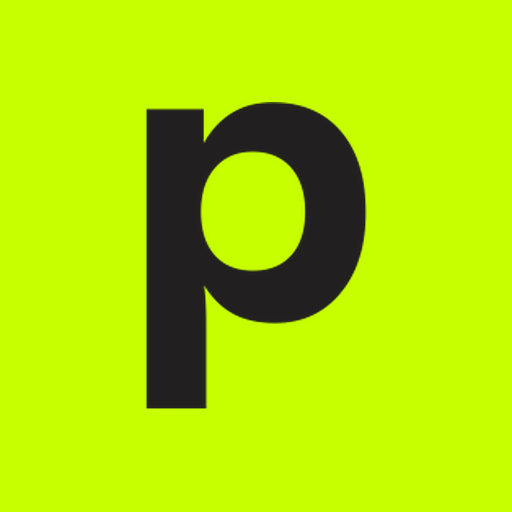
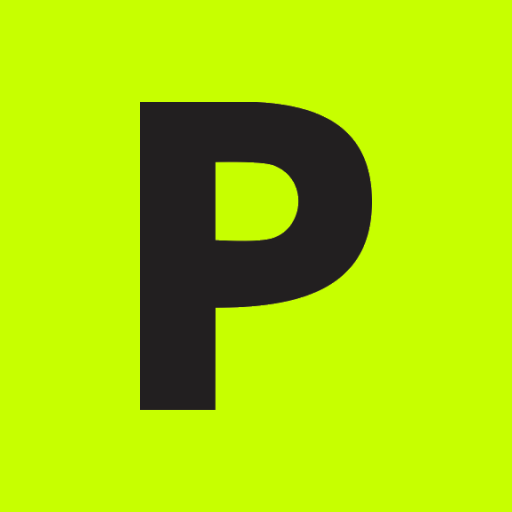
Put the Powerstick wordmark on the site
The new logo arrived as media-inbox/powerstik0logo.png: capital P, "Power"
reversed out of a lime block, "stick" in ink, and the spelling the brand is
moving to. It is already trimmed, and its ink is exactly #221F20.

Its lime is not. The artwork ships in #DBE836, a duller and yellower green
that reads as a mistake beside a #C7FF00 button, so the installed files are
recoloured and the original is kept untouched as the master. If #DBE836 turns
out to be the new brand lime, that is a token change and a different job.

The knockout had to be selective. "Power" sits on the lime block, so turning
all the ink white would have wiped it off its own block - white on lime is
about 1.2:1. Only the type right of the block turns white.

Favicons and the mark are rebuilt from the new capital P, and the header and
footer carry the new 960x184 ratio so nothing shifts while the image loads.

The copy still says Powerstik everywhere - around 115 occurrences. The footer
now sets the new name in the logo and the old one in the line beneath it.
That is one pass, not a piecemeal fix, and it needs the domain, the registered
name and the (R) settled first. brand.md says so at the top.

diff --git a/resources/views/components/site/footer.blade.php b/resources/views/components/site/footer.blade.php
@@ -10,7 +10,7 @@
 <footer class="on-dark bg-ink text-[14.5px] text-muted">
     <div class="site-container-wide grid gap-12 pt-16 sm:grid-cols-2 lg:grid-cols-[1.4fr_1fr_1fr_1fr] lg:gap-14 lg:pt-[76px]">
         <div class="sm:col-span-2 lg:col-span-1">
-            <img src="{{ asset('images/brand/logo-white.png') }}" alt="Powerstik" width="960" height="217" loading="lazy" class="h-[30px] w-auto">
+            <img src="{{ asset('images/brand/logo-white.png') }}" alt="Powerstick" width="960" height="184" loading="lazy" class="h-[30px] w-auto">
             <p class="mt-6 max-w-[34ch] leading-[1.6] text-faint">Powerstik is a brand of Design India. Labels, cartons and corrugated packaging, designed and printed in-house.</p>
             <address class="mt-5 leading-[1.6] not-italic text-mono">
                 @if ($address)

diff --git a/resources/views/components/admin/layouts/app.blade.php b/resources/views/components/admin/layouts/app.blade.php
@@ -29,7 +29,7 @@
         <aside class="fixed inset-y-0 left-0 z-40 w-64 -translate-x-full border-r border-zinc-200 bg-white transition lg:translate-x-0"
                :class="nav && 'translate-x-0'">
             <div class="flex h-16 items-center border-b border-zinc-200 px-5">
-                <a href="{{ route('admin.dashboard') }}"><img src="/images/brand/logo.png" alt="Powerstik" class="h-8 w-auto"></a>
+                <a href="{{ route('admin.dashboard') }}"><img src="/images/brand/logo.png" alt="Powerstick" class="h-8 w-auto"></a>
             </div>
             <nav class="h-[calc(100%-4rem)] space-y-5 overflow-y-auto p-3">
                 @foreach ($nav as $group => $items)

diff --git a/resources/views/components/site/header.blade.php b/resources/views/components/site/header.blade.php
@@ -26,7 +26,7 @@
         class="sticky top-0 z-40 border-b border-rule bg-paper/94 backdrop-blur-[8px]">
     <div class="site-container-wide flex h-[72px] items-center justify-between gap-10 min-[1100px]:h-[84px]">
         <a href="{{ url('/') }}" class="shrink-0" aria-label="Powerstik home">
-            <img src="{{ asset('images/brand/logo.png') }}" alt="Powerstik" width="960" height="217" class="h-7 w-auto min-[1100px]:h-9">
+            <img src="{{ asset('images/brand/logo.png') }}" alt="Powerstick" width="960" height="184" class="h-7 w-auto min-[1100px]:h-9">
         </a>
 
         <nav aria-label="Main" class="hidden min-[1100px]:block">

diff --git a/resources/views/admin/auth/login.blade.php b/resources/views/admin/auth/login.blade.php
@@ -1,7 +1,7 @@
 <x-admin.layouts.guest title="Log in">
     <div class="flex min-h-full items-center justify-center px-4 py-12">
         <div class="w-full max-w-sm">
-            <img src="/images/brand/logo.png" alt="Powerstik" class="mx-auto h-12 w-auto">
+            <img src="/images/brand/logo.png" alt="Powerstick" class="mx-auto h-12 w-auto">
             <form method="POST" action="{{ route('admin.login') }}" class="adm-card mt-8 space-y-5 p-6">
                 @csrf
                 <x-admin.field name="email" label="Email" type="email" autocomplete="username" required autofocus />

diff --git a/docs/design/brand.md b/docs/design/brand.md
@@ -1,8 +1,15 @@
 # Powerstik brand — lime and ink
 
 Source of truth: the client brochure (`docs/design/brand/brochure-1..4.jpg`, full PDF in
-`resources/media-inbox/brochure.pdf`) and the supplied wordmark
-(`docs/design/brand/powerstik-logo-master.png`, 1288 × 267, transparent).
+`resources/media-inbox/brochure.pdf`) and the supplied wordmark —
+**`docs/design/brand/powerstick-logo-master.png`, 2729 × 522, transparent**, which arrived
+on 2026-10-17 and replaced `powerstik-logo-master.png`.
+
+> ⚠ **The brand is being renamed: Powerstik → Powerstick.** The new wordmark is on the
+> site; **the copy has not been changed yet** — around 115 occurrences across views, seeders,
+> config, mail and docs still read "Powerstik", so the footer currently sets the new name in
+> the logo and the old one in the sentence beneath it. Don't fix that piecemeal: it is one
+> pass, and it needs decisions about the domain, the ® and the registered name first.
 
 This replaces the red scheme (`#E31E24`) that the home page design handoff used. Nothing of the
 red brand survives; if you find a red that is not a validation error, it is a leftover.
@@ -11,13 +18,19 @@ red brand survives; if you find a red that is not a validation error, it is a le
 
 | Role | Value | Where |
 |---|---|---|
-| Brand lime | `#C7FF00` | the "stik" in the wordmark; every fill, block, chip and rule |
-| Ink | `#221F20` | the "power" in the wordmark; body type, dark grounds, primary buttons |
+| Brand lime | `#C7FF00` | the block behind "Power"; every fill, block, chip and rule |
+| Ink | `#221F20` | the type in the wordmark; body type, dark grounds, primary buttons |
 | Ink deep | `#141213` | the second dark ground, for stacked dark sections |
 | Paper | `#FFFFFF` | the brochure ground. Pure white, not the old cream |
 
 The brochure prints the lime as `#D4FD00`; that is the CMYK conversion of the same colour, so
-screen work uses the wordmark's `#C7FF00`.
+screen work uses `#C7FF00`.
+
+> ⚠ **The new wordmark was supplied in `#DBE836`, not `#C7FF00`** — a duller, yellower green.
+> Beside a `#C7FF00` button it reads as a mistake, so the installed artwork is **recoloured to
+> `#C7FF00`** and the original sits untouched at `docs/design/brand/powerstick-logo-master.png`.
+> If `#DBE836` is the new brand lime then the token changes and the whole site follows, which is
+> a different job. Ask before assuming either way.
 
 ### The one rule that matters
 
@@ -66,17 +79,26 @@ marker-pen highlight (`group-hover:bg-brand-500`), links swap a lime underline f
 
 Generated from the master by `docs/design/brand/README-assets.md`:
 
-- `public/images/brand/logo.png` — 960 × 217, ink "power" + lime "stik", for light grounds
-- `public/images/brand/logo-white.png` — the knockout: white "power" + lime "stik", for ink grounds
-- `public/images/brand/mark.png` — the "p" in ink on a lime tile, 512px
+- `public/images/brand/logo.png` — 960 × 184, ink "Power" on a lime block + ink "stick"
+- `public/images/brand/logo-white.png` — the knockout for ink grounds. **Only the type outside
+  the lime block turns white.** "Power" sits on lime and stays ink; white on lime measures about
+  1.2:1 and would vanish
+- `public/images/brand/mark.png` — the "P" in ink on a lime tile, 512px
 - `public/favicon.ico`, `favicon-32.png`, `apple-touch-icon.png` — the same tile
 
-The new wordmark carries **no tagline**. "better ideas" was part of the old artwork and is gone;
-`<meta name="theme-color">` is the ink.
+The wordmark carries **no tagline**. "better ideas" belonged to the old artwork; the client's
+2026 social posts use "where trust meets perfection", which is not on this logo and is not on the
+site. `<meta name="theme-color">` is the ink.
+
+**The lime block has rounded ends**, which is the one place the brand's square-corner rule does
+not apply. A logo is allowed its own geometry; nothing else on the site may borrow the radius.
 
 ## Still to ask the client
 
-- Vector artwork (SVG/AI/EPS) for the wordmark. Everything here is rebuilt from a 1288px PNG.
+- Vector artwork (SVG/AI/EPS) for the wordmark. Everything here is rebuilt from a 2729px PNG.
+- **Which lime is canonical**, `#C7FF00` or the `#DBE836` the new artwork shipped in.
+- **Whether the registered mark covers "Powerstick"** — the artwork carries ®, and the site
+  prints it in the footer.
 - Whether "better ideas" survives as a tagline anywhere off the logo.
 - Whether the floating WhatsApp button should keep the ink treatment or go back to WhatsApp's
   own green (`--color-whatsapp` is still defined; it is one class in

diff --git a/docs/design/brand/README-assets.md b/docs/design/brand/README-assets.md
@@ -1,49 +1,32 @@
 # Rebuilding the brand assets
 
-Everything in `public/images/brand/` and the three favicons are generated from
-`powerstik-logo-master.png` in this folder. To redo them (needs Python with Pillow):
+Everything in `public/images/brand/` and the three favicons is generated from
+`powerstick-logo-master.png` in this folder (2729 × 522, already trimmed to its
+opaque bounding box — don't trim it again).
 
-```python
-from PIL import Image
+Two things make this more than a resize:
 
-SRC  = 'docs/design/brand/powerstik-logo-master.png'
-INK  = (34, 31, 32)     # #221F20
-LIME = (199, 255, 0)    # #C7FF00
+1. **The master is supplied in `#DBE836`**, which is not the brand lime. Every
+   generated file is recoloured to `#C7FF00` first. See `brand.md`.
+2. **The knockout is selective.** "Power" sits on the lime block and must stay ink;
+   only the type to the right of the block — "stick" and the ® — turns white. A
+   whole-image ink→white swap would wipe "Power" off its own block.
 
-master = Image.open(SRC).convert('RGBA')
-master = master.crop(master.getbbox())          # 1183 x 267 after trimming
+The generator is `scratchpad/bin/brandkit.php` from the session that built these
+(PHP + GD, because this machine has no ImageMagick and no Pillow). It finds the
+block's right edge by probing a row 6% down from the top, where the block is lime
+across its full width and nothing else is, then:
 
-def recolour(img, frm, to, tol=90):
-    """Swap one flat colour for another, keeping the anti-aliased alpha."""
-    out = img.copy(); px = out.load()
-    for y in range(out.height):
-        for x in range(out.width):
-            r, g, b, a = px[x, y]
-            if a and abs(r-frm[0]) + abs(g-frm[1]) + abs(b-frm[2]) < tol:
-                px[x, y] = (*to, a)
-    return out
+| Output | How |
+|---|---|
+| `images/brand/logo.png` | recoloured master at 960px wide |
+| `images/brand/logo-white.png` | ink → white only where `x > blockRight`, at 960px |
+| `images/brand/mark.png` | first ink glyph ("P") centred on a 512px lime tile, 20% padding |
+| `apple-touch-icon.png` (180), `favicon-32.png` (32) | the same tile |
+| `favicon.ico` | 16/32/48 PNG payloads in an ICO container, written by hand |
 
-def fit(img, w):
-    return img.resize((w, round(img.height * w / img.width)), Image.LANCZOS)
-
-fit(master, 960).save('public/images/brand/logo.png')
-fit(recolour(master, INK, (255, 255, 255)), 960).save('public/images/brand/logo-white.png')
-
-# The mark: first glyph ("p"), ink on a lime tile with 20% padding
-p = master.crop((0, 0, 136, master.height)); p = p.crop(p.getbbox())
-
-def tile(size):
-    pad = round(size * .20); box = size - pad * 2
-    s = min(box / p.width, box / p.height)
-    art = p.resize((round(p.width * s), round(p.height * s)), Image.LANCZOS)
-    c = Image.new('RGBA', (size, size), (*LIME, 255))
-    c.alpha_composite(art, ((size - art.width) // 2, (size - art.height) // 2))
-    return c
-
-tile(512).save('public/images/brand/mark.png')
-tile(180).convert('RGB').save('public/apple-touch-icon.png')
-tile(32).convert('RGB').save('public/favicon-32.png')
-tile(64).save('public/favicon.ico', sizes=[(16, 16), (32, 32), (48, 48)])
-```
+`favicon.ico` is built directly: a six-byte header, one sixteen-byte directory
+entry per size, then the PNG payloads. PNG-in-ICO is legal and every browser in
+use reads it; GD cannot write ICO itself.
 
 Replace this whole step the moment the client sends vector artwork.
